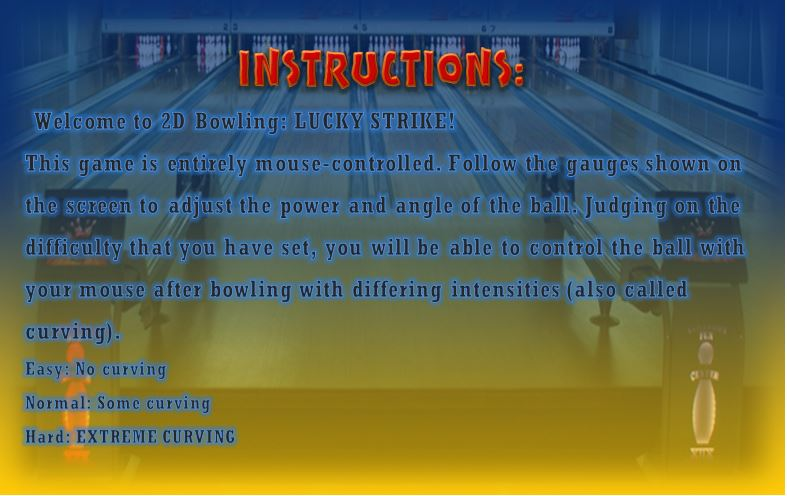
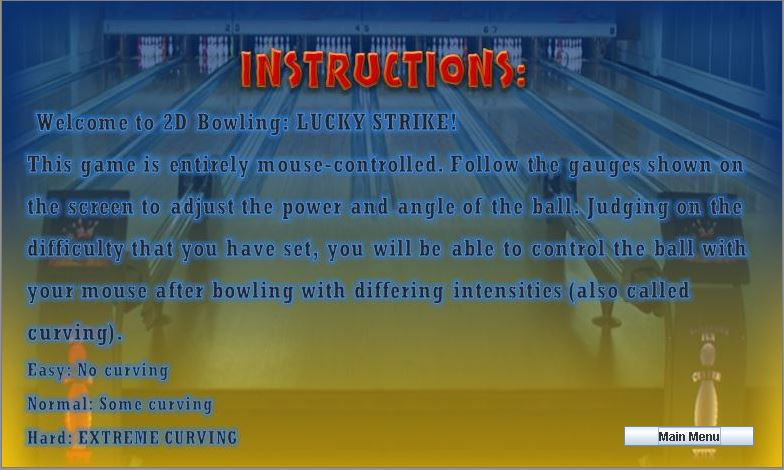
Photoshopped images, worked on setting background

diff --git a/FinalProject.java b/FinalProject.java
@@ -39,7 +39,7 @@ public class FinalProject extends JFrame implements ActionListener{
     private JRadioButton settingsBG1 = new JRadioButton("Background 1");
     private JRadioButton settingsBG2 = new JRadioButton("Background 2");
 
-    private String bgSet = "";
+    private int bgSet = 1;
     private JButton settingsBackButton = new JButton("Main Menu");
 
     //Difficulty Features */
@@ -165,8 +165,14 @@ public class FinalProject extends JFrame implements ActionListener{
 	    frame.pack();
 	}
 	if (action.equals("difficulty")){
-	    menuSelection("difficulty.jpg");
-
+	    if (diffSet.equals("Normal")){
+		menuSelection("difficultyN.jpg");
+	    }else if (diffSet.equals("Hard")){
+		menuSelection("difficultyH.jpg");
+	    }else if (diffSet.equals("Easy")){
+		menuSelection("difficultyE.jpg");
+	    }
+	    
 	    difficultyOptions.add(difficultyEasy);
 	    difficultyOptions.add(difficultyNormal);
 	    difficultyOptions.add(difficultyHard);
@@ -201,9 +207,9 @@ public class FinalProject extends JFrame implements ActionListener{
 	    diffSet = "hard";
 	}
 	if (settingsBG1.isSelected()){
-	    bgSet = "1";
+	    bgSet = 1;
 	}else if (settingsBG2.isSelected()){
-	    bgSet = "2";
+	    bgSet = 1;
 	}
 	
     } 
